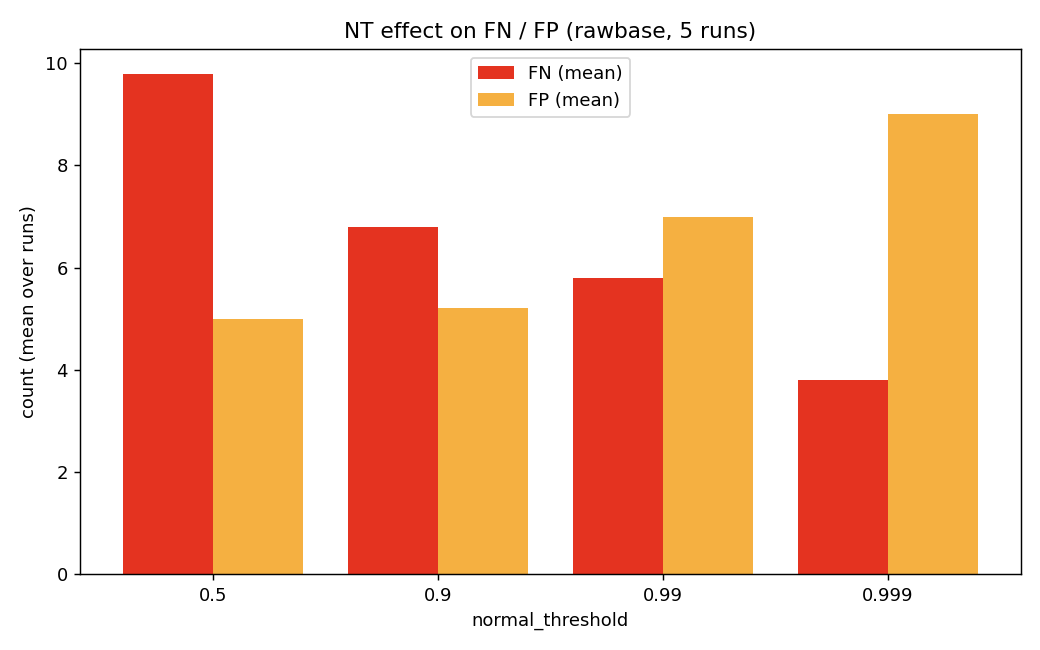
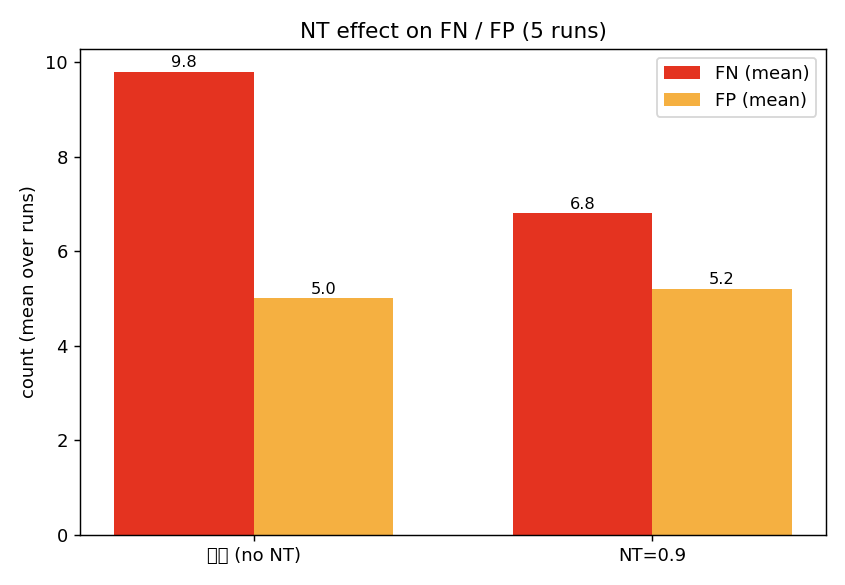
NT effect: simplify to 2-row '그냥 vs NT' comparison + clearer plot
Original NT effect table had 5 rows including the degenerate 0.9999 case.
The user's request was for a simple "no-NT vs NT" pairing, so the table
collapses to two rows:
  그냥 (no NT, argmax / NT=0.5)  -> FN 9.80, FP 5.00, F1 0.9901
  NT=0.9 (reporting default)      -> FN 6.80, FP 5.20, F1 0.9920

Plot is a side-by-side bar (FN red, FP yellow) with the values labeled
on top of each bar so the trade-off is readable at a glance. degenerate
NT levels (0.99 / 0.999 / 0.9999) are still mentioned in the prose but
no longer crowd the table or the plot. summary.md NT section updated to
match.

diff --git a/scripts/generate_nt_effect_report.py b/scripts/generate_nt_effect_report.py
@@ -2,13 +2,16 @@
 """Build a NT (normal_threshold) effect markdown + plot.
 
 Walks logs/**/best_info.json and pulls each run's `normal_threshold_results`
-dict (thresholds 0.5 / 0.9 / 0.99 / 0.999 / 0.9999). For every threshold
-level it averages FN, FP, and F1 across rawbase baseline runs and reports a
-table + bar plot.
+for two cases:
+- "그냥" (no NT applied, argmax-only) -> NT key 0.5
+- "NT applied" -> NT key 0.9 (the reporting default)
+
+Aggregates mean FN / FP / F1 across runs of the matched candidate so the
+output is a 2-row table + a side-by-side bar plot.
 
 Typical use:
   python scripts/generate_nt_effect_report.py
-    --candidate-prefix fresh0412_v11_refcheck_raw_n700
+    --candidate-prefix fresh0412_v11_n700
     --out-md  validations/nt_effect.md
     --out-csv validations/nt_effect.csv
     --out-plot validations/nt_effect.png
@@ -113,18 +116,21 @@ def main() -> int:
             f"prefix='{args.candidate_prefix}' contains='{args.candidate_contains}'"
         )
 
-    # Aggregate
+    # 2-row aggregate: 그냥(no NT, argmax → NT=0.5) vs NT applied (NT=0.9 default).
+    LABELS = [(0.5, "그냥 (no NT)"), (0.9, "NT=0.9")]
     agg = []
-    for nt_val in sorted(rows_per_nt.keys()):
-        rs = rows_per_nt[nt_val]
+    for nt_val, label in LABELS:
+        rs = rows_per_nt.get(nt_val, [])
+        if not rs:
+            continue
+        f1s = [r["f1"] for r in rs if isinstance(r["f1"], (int, float))]
         agg.append({
+            "label": label,
             "nt": nt_val,
             "n_runs": len(rs),
-            "f1_mean": mean(r["f1"] for r in rs if isinstance(r["f1"], (int, float))) if any(isinstance(r["f1"], (int, float)) for r in rs) else None,
+            "f1_mean": mean(f1s) if f1s else None,
             "fn_mean": mean(r["fn"] for r in rs),
             "fp_mean": mean(r["fp"] for r in rs),
-            "fn_max": max(r["fn"] for r in rs),
-            "fp_max": max(r["fp"] for r in rs),
         })
 
     # Markdown
@@ -133,52 +139,50 @@ def main() -> int:
         "# NT (normal_threshold) effect",
         "",
         f"- runs scanned: {runs_seen}",
-        f"- candidates matched: {len(matched_candidates)} ({', '.join(sorted(matched_candidates)[:5])}{'...' if len(matched_candidates) > 5 else ''})",
+        f"- candidate(s) matched: {len(matched_candidates)} ({', '.join(sorted(matched_candidates)[:5])}{'...' if len(matched_candidates) > 5 else ''})",
         "",
         f"![NT effect]({args.out_plot.name})",
         "",
-        "| NT | runs | F1 mean | FN mean | FP mean | FN max | FP max |",
-        "| ---: | ---: | ---: | ---: | ---: | ---: | ---: |",
+        "| condition | runs | F1 mean | FN mean | FP mean |",
+        "| --- | ---: | ---: | ---: | ---: |",
     ]
     for row in agg:
         f1 = f"{row['f1_mean']:.4f}" if row["f1_mean"] is not None else "-"
         md_lines.append(
-            f"| {row['nt']} | {row['n_runs']} | {f1} | {row['fn_mean']:.2f} | {row['fp_mean']:.2f} | {row['fn_max']} | {row['fp_max']} |"
+            f"| {row['label']} | {row['n_runs']} | {f1} | {row['fn_mean']:.2f} | {row['fp_mean']:.2f} |"
         )
     md_lines.extend([
         "",
-        "**해석**: NT(`normal_threshold`)를 올리면 \"normal 로 판정되려면 더 높은 confidence 필요\" 기준이 되므로 더 많은 케이스를 abnormal 로 보내게 됩니다. 결과: **NT 올라가면 FN 줄고 (불량 더 잘 잡음) FP 늘어남 (정상도 abnormal 로 오인)**. 0.9999 같은 극단값에서는 모든 케이스를 abnormal 로 분류해서 FP=전체 normal 수가 되는 degenerate. test-peeking 위험으로 권장하지 않습니다 (memory `feedback_normal_threshold_099`).",
+        "**해석**: NT 적용 시 \"p_normal ≥ 0.9 이어야 normal 로 판정\" 기준으로 더 많은 케이스를 abnormal 쪽으로 보냅니다. 결과: **FN 감소 (불량 더 잡음) / FP 약간 증가 (정상도 abnormal 로 오인 가능)**. 기본 NT=0.9 가 sweet spot. 0.99 이상 극단값은 권장 안 함 (memory `feedback_normal_threshold_099`).",
     ])
     args.out_md.write_text("\n".join(md_lines) + "\n", encoding="utf-8")
 
     # CSV
     args.out_csv.parent.mkdir(parents=True, exist_ok=True)
     with args.out_csv.open("w", newline="", encoding="utf-8") as h:
-        w = csv.DictWriter(h, fieldnames=["nt", "n_runs", "f1_mean", "fn_mean", "fp_mean", "fn_max", "fp_max"])
+        w = csv.DictWriter(h, fieldnames=["label", "nt", "n_runs", "f1_mean", "fn_mean", "fp_mean"])
         w.writeheader()
         for row in agg:
             w.writerow(row)
 
-    # Plot — drop degenerate NT rows where FP (or FN) saturates the test set,
-    # otherwise the y-axis is dominated by collapsed runs.
-    plot_rows = [r for r in agg if r["fp_mean"] < 100 and r["fn_mean"] < 100]
-    if not plot_rows:
-        plot_rows = agg
-    nts = [str(r["nt"]) for r in plot_rows]
-    fns = [r["fn_mean"] for r in plot_rows]
-    fps = [r["fp_mean"] for r in plot_rows]
+    # Plot — 2 conditions side by side
+    labels = [r["label"] for r in agg]
+    fns = [r["fn_mean"] for r in agg]
+    fps = [r["fp_mean"] for r in agg]
 
     args.out_plot.parent.mkdir(parents=True, exist_ok=True)
-    fig, ax = plt.subplots(figsize=(8.0, 5.0))
-    width = 0.4
-    x = list(range(len(nts)))
+    fig, ax = plt.subplots(figsize=(6.5, 4.5))
+    width = 0.35
+    x = list(range(len(labels)))
     ax.bar([i - width / 2 for i in x], fns, width=width, label="FN (mean)", color="#E43320")
     ax.bar([i + width / 2 for i in x], fps, width=width, label="FP (mean)", color="#F5B041")
+    for i, (fn, fp) in enumerate(zip(fns, fps)):
+        ax.text(i - width / 2, fn + 0.1, f"{fn:.1f}", ha="center", fontsize=9)
+        ax.text(i + width / 2, fp + 0.1, f"{fp:.1f}", ha="center", fontsize=9)
     ax.set_xticks(x)
-    ax.set_xticklabels(nts)
-    ax.set_xlabel("normal_threshold")
+    ax.set_xticklabels(labels)
     ax.set_ylabel("count (mean over runs)")
-    ax.set_title(f"NT effect on FN / FP (rawbase, {runs_seen} runs)")
+    ax.set_title(f"NT effect on FN / FP ({runs_seen} runs)")
     ax.legend()
     fig.tight_layout()
     fig.savefig(args.out_plot, dpi=130)
